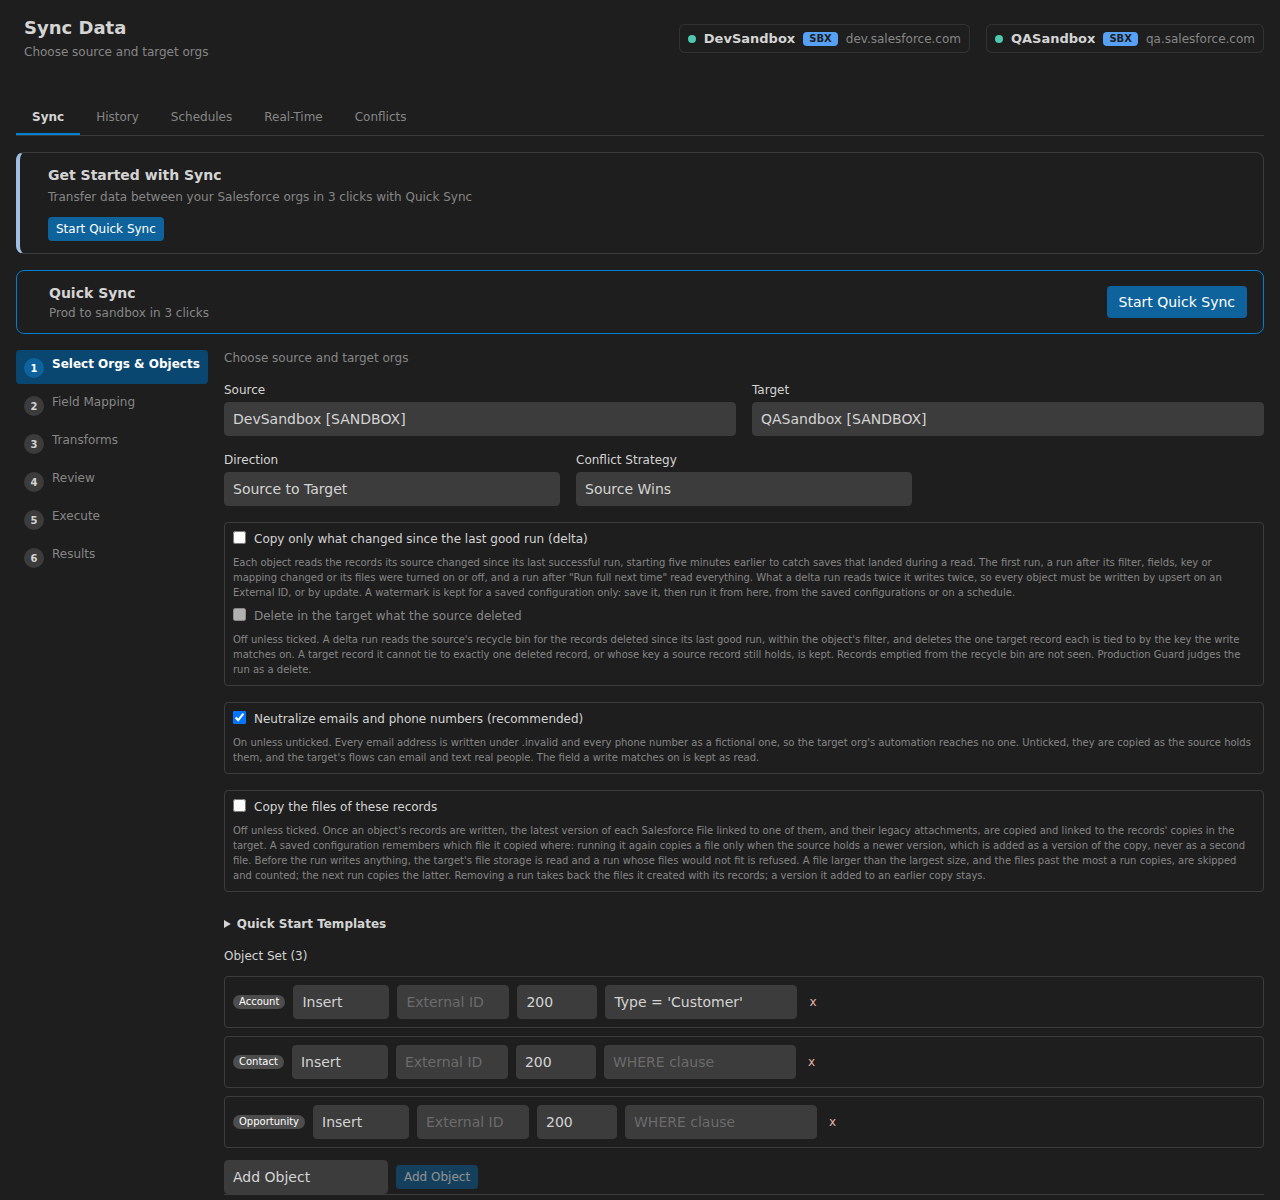
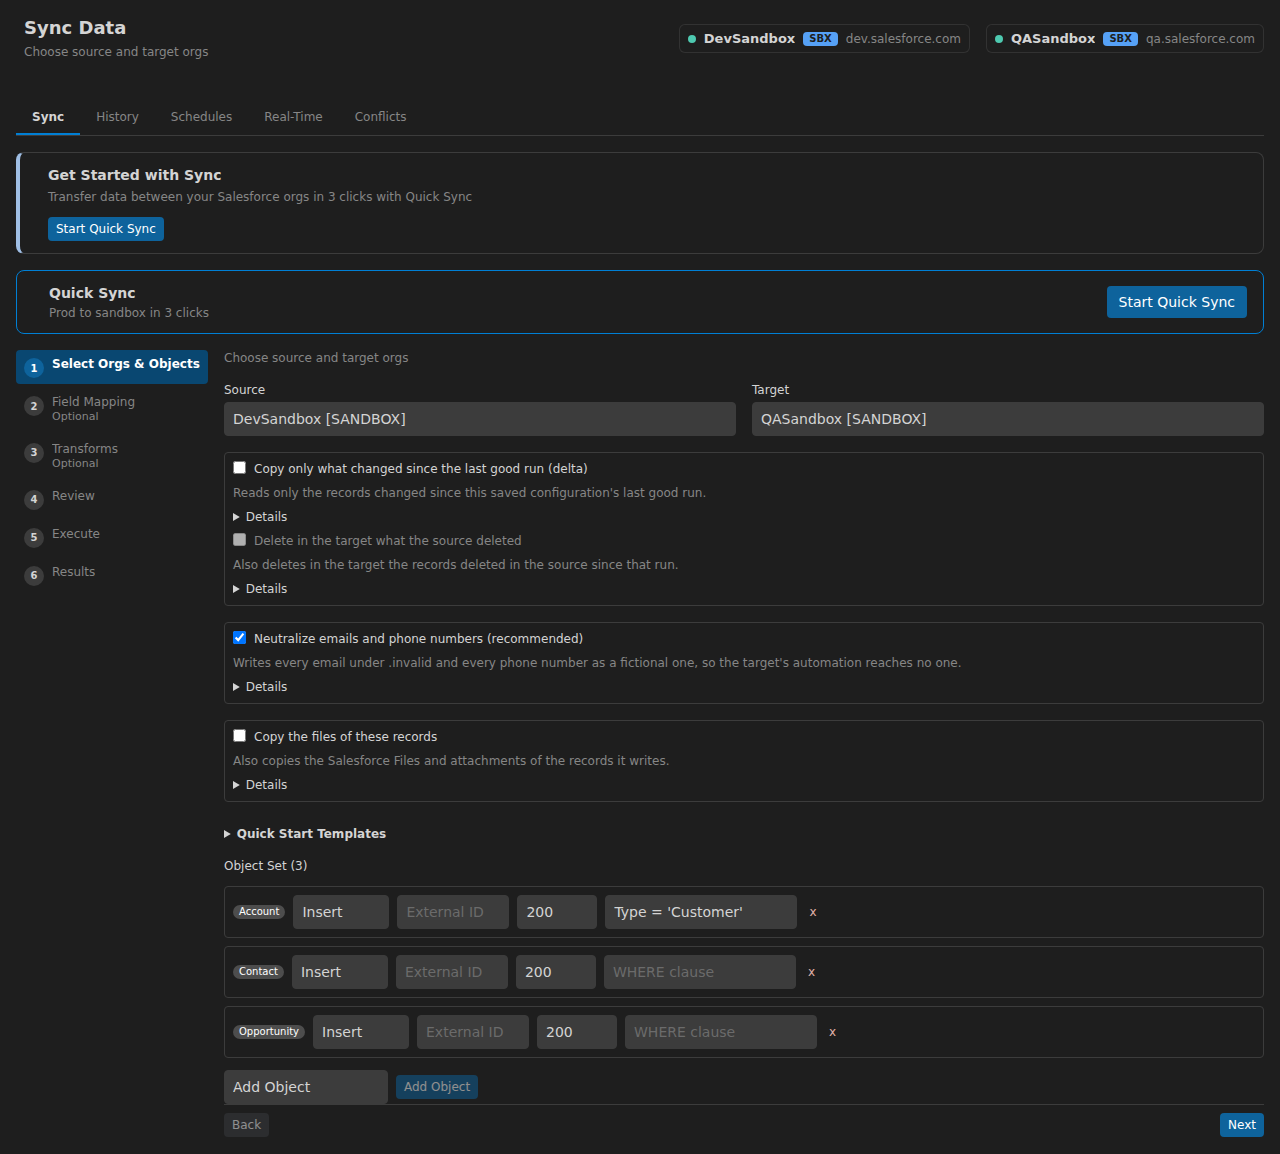
docs: Marketplace screenshots show Sync's single question, Forge Review's gaps notice and the reworded pages; the monitor shot answers every refresh the page sends

diff --git a/packages/webview/e2e/screenshots.spec.ts b/packages/webview/e2e/screenshots.spec.ts
@@ -988,7 +988,10 @@ test.describe('Marketplace Screenshots', () => {
 
   test('monitor', async ({ page }) => {
     const bridge = await openModule(page, 'monitor');
-    await bridge.respondToNext('monitor:refresh', 'monitor:data', MOCK_HEALTH);
+    // Every refresh the page sent, not the first: answered once, the second
+    // left the dashboard on its skeleton (the page asks again as it mounts).
+    await bridge.waitForMessage('monitor:refresh', { timeout: 10_000 });
+    await respondToAll(page, 'monitor:refresh', 'monitor:data', MOCK_HEALTH);
     // Without this the storage panel stays on its loading skeleton and the
     // shot shows a 200px grey slab in the middle of the dashboard.
     await bridge.waitForMessage('monitor:storage', { timeout: 10_000 });

diff --git a/packages/extension/README.md b/packages/extension/README.md
@@ -118,7 +118,7 @@ Seed's **CSV Upload** and **Clone from Org** keep no list of what they created, 
 
 ![Home — orgs, health and the forge entry point](https://raw.githubusercontent.com/StephaneBerthoz/sandforge/master/assets/screenshots/home.png)
 
-![Sync — source and target orgs, direction, conflict strategy and a filtered object set](https://raw.githubusercontent.com/StephaneBerthoz/sandforge/master/assets/screenshots/sync.png)
+![Sync — source and target orgs, emails and phone numbers neutralized by default, and a filtered object set](https://raw.githubusercontent.com/StephaneBerthoz/sandforge/master/assets/screenshots/sync.png)
 
 ![Monitor — health score, governor limits and storage breakdown](https://raw.githubusercontent.com/StephaneBerthoz/sandforge/master/assets/screenshots/monitor.png)
 

diff --git a/README.md b/README.md
@@ -128,7 +128,7 @@ Seed's **CSV Upload** and **Clone from Org** keep no list of what they created, 
 
 ![Home — orgs, health and the forge entry point](assets/screenshots/home.png)
 
-![Sync — source and target orgs, direction, conflict strategy and a filtered object set](assets/screenshots/sync.png)
+![Sync — source and target orgs, emails and phone numbers neutralized by default, and a filtered object set](assets/screenshots/sync.png)
 
 ![Monitor — health score, governor limits and storage breakdown](assets/screenshots/monitor.png)
 
